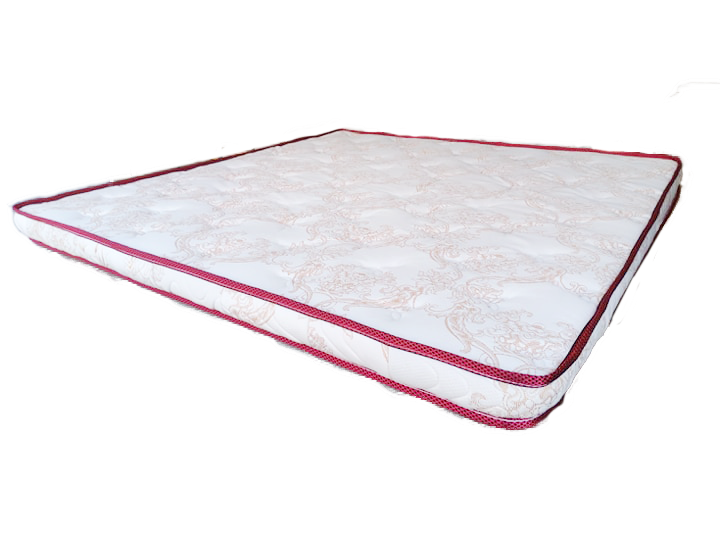
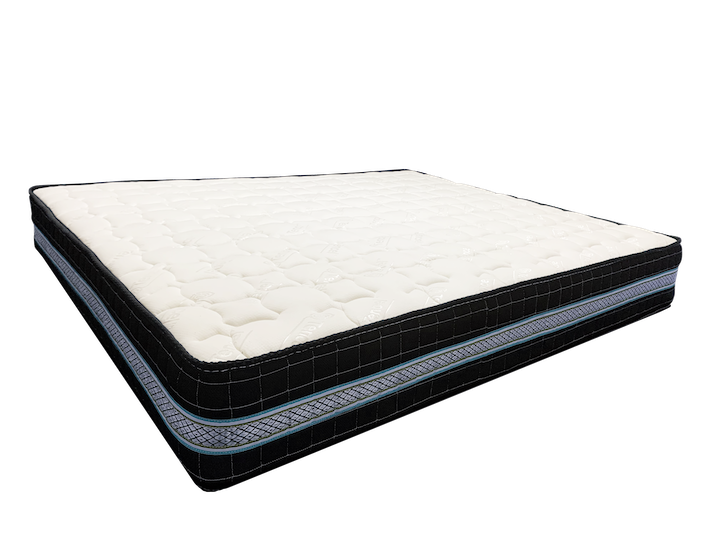
1219 update - 正式圖片更換 首頁微調 商品內頁微調

Changed region(s): [[0.0, 0.237, 0.9472, 0.9185], [0.4278, 0.4741, 0.4583, 0.5037], [0.3667, 0.4444, 0.3972, 0.4741]]

diff --git a/css/layout.css b/css/layout.css
@@ -842,7 +842,7 @@ footer #fast_link_popBox #go_top::after {
 
 .banner#idx_banner {
   position: relative;
-  background-image: url(../images/banner/index_banner.png);
+  background-image: url(../images/banner/index_banner.png?1);
   background-size: cover;
   background-position: center;
 }
@@ -1034,7 +1034,7 @@ footer #fast_link_popBox #go_top::after {
 }
 .banner#contact_banner {
   position: relative;
-  background-image: url(../images/contact_bg.jpg);
+  background-image: url(../images/contact_bg.jpg?1);
   background-size: 1920px 1400px;
   background-position: center -450px;
   background-repeat: no-repeat;
@@ -1088,7 +1088,7 @@ footer #fast_link_popBox #go_top::after {
 }
 .banner#limited_banner {
   position: relative;
-  background-image: url(../images/contact_bg.jpg);
+  background-image: url(../images/contact_bg.jpg?1);
   background-size: 1920px 1400px;
   background-position: center -450px;
   background-repeat: no-repeat;
@@ -1158,9 +1158,9 @@ footer #fast_link_popBox #go_top::after {
 }
 .banner#products_banner {
   position: relative;
-  background-image: url(../images/contact_bg.jpg);
+  background-image: url(../images/contact_bg.jpg?1);
   background-size: 1920px 1400px;
-  background-position: center -450px;
+  background-position: center -720px;
   background-repeat: no-repeat;
   width: 100%;
   height: 200px;
@@ -1168,13 +1168,13 @@ footer #fast_link_popBox #go_top::after {
 @media (min-width: 768px) {
   .banner#products_banner {
     height: 330px;
-    background-position: center -380px;
+    background-position: center -600px;
   }
 }
 @media (min-width: 992px) {
   .banner#products_banner {
     height: 400px;
-    background-position: center -380px;
+    background-position: center -570px;
   }
 }
 .banner#products_banner .logo {
@@ -2060,6 +2060,23 @@ section#customize_page #customizeBox {
   max-width: 1200px;
   margin: 0 auto;
 }
+
+section#customize_page #customizeBox .for_mobile {
+  display: block;
+}
+section#customize_page #customizeBox .for_pc {
+  display: none;
+}
+
+@media (min-width: 768px) {
+  section#customize_page #customizeBox .for_mobile {
+    display: none;
+  }
+  section#customize_page #customizeBox .for_pc {
+    display: block;
+  }
+}
+
 section#customize_page #customizeBox .customize_text1 {
   position: absolute;
   color: #fff;
@@ -2264,7 +2281,7 @@ section#products_page #products_box .products_box_item a {
   margin: 0 auto;
 }
 section#products_page #products_box .products_box_item a .product_img img {
-  max-width: 400px;
+  max-width: 360px;
   margin: 0 auto;
 }
 section#products_page #products_box .products_box_item a span.product_name {
@@ -2380,9 +2397,9 @@ section#products_page #products_box #product_information #sizeBox #priceLine {
 @media (min-width: 576px) {
   section#products_page #products_box #product_information #sizeBox #priceLine {
     display: flex;
-    justify-content: flex-start;
+    justify-content: space-between;
     align-items: center;
-    margin-top: -10px;
+    margin: -10px 0 0 0;
   }
 }
 section#products_page #products_box #product_information #sizeBox #btnLine {

diff --git a/products_cloud.html b/products_cloud.html
@@ -46,10 +46,10 @@
                         </div>
                         <div class="rightDiv grid-col-m-3">
                           <div id="btnLine">
-                            <div class="collect">
+                            <!-- <div class="collect">
                               <i class="fas fa-heart"></i>
                               <span>收藏</span>
-                            </div>
+                            </div> -->
                             <div class="inquire">
                               <img src="images/icon/line_icon_circle.png" alt="">
                               <span>洽詢</span>
@@ -60,7 +60,7 @@
                       <!-- <div id="swiperLine">
                           <div class="swiper-container">
                               <div class="swiper-wrapper">
-                                  <img class="swiper-slide" src="images/products/wave/product1.png" alt="">
+                                  <img class="swiper-slide" src="images/products/wave/product1.png?1" alt="">
                                   <img class="swiper-slide" src="images/products/wave/section4_circle.png" alt="">
                               </div>
                               <div class="swiper-pagination"></div>
@@ -72,7 +72,7 @@
                       <div class="swiperContainer">
                         <div class="swiper">
                             <div class="swiper-wrapper">
-                                <img class="swiper-slide" src="images/products/wave/product1.png" alt="">
+                                <img class="swiper-slide" src="images/products/wave/product1.png?1" alt="">
                                 <img class="swiper-slide" src="images/products/wave/section4_circle.png" alt="">
                                 <img class="swiper-slide" src="images/products/wave/section4_circle.png" alt="">
                                 <img class="swiper-slide" src="images/products/wave/section4_circle.png" alt="">
@@ -315,8 +315,10 @@ section#products_page {
     padding-bottom: 30px;
   }
   #products_image_box .realImg {
-    width: 100%;
+    width: 80%;
     left: initial;
+    left: 50%;
+    transform: translateX(-50%);
   }
   #products_image_box .bg {
     background-size: 25vw;
@@ -413,8 +415,10 @@ section#products_page #products_box #product_information {
 }
 @media (min-width: 576px) {
   .rightDiv {
-    display: block;
-    float: left
+    display: flex;
+    align-items: flex-end;
+    float: left;
+    height: 100px;
   }
 }
 .rightDivForSwiper {

diff --git a/index.html b/index.html
@@ -7,7 +7,7 @@
     <title>製床所御品 - 首頁</title>
     <script src="js/jquery-2.2.4.min.js"></script>
     <link rel="stylesheet" href="css/normalize.css">
-    <link rel="stylesheet" href="css/layout.css">
+    <link rel="stylesheet" href="css/layout.css?2022121904">
     <link rel="icon" type="image/png" href="images/favicon.png">
 
     <!-- fontawesome -->
@@ -264,6 +264,14 @@
             $('#customized').height($('.limitedSwiperContainer').height() - 30);
         }
     }, 100);
+
+    $('.swiper-slide').on('click', () => {
+        window.location.href = '/limited.html';
+    })
+    $('#limit_products .listItem').on('click', () => {
+        window.location.href = '/products.html?product_id=0';
+    })
+    
 </script>
 </html>
 
